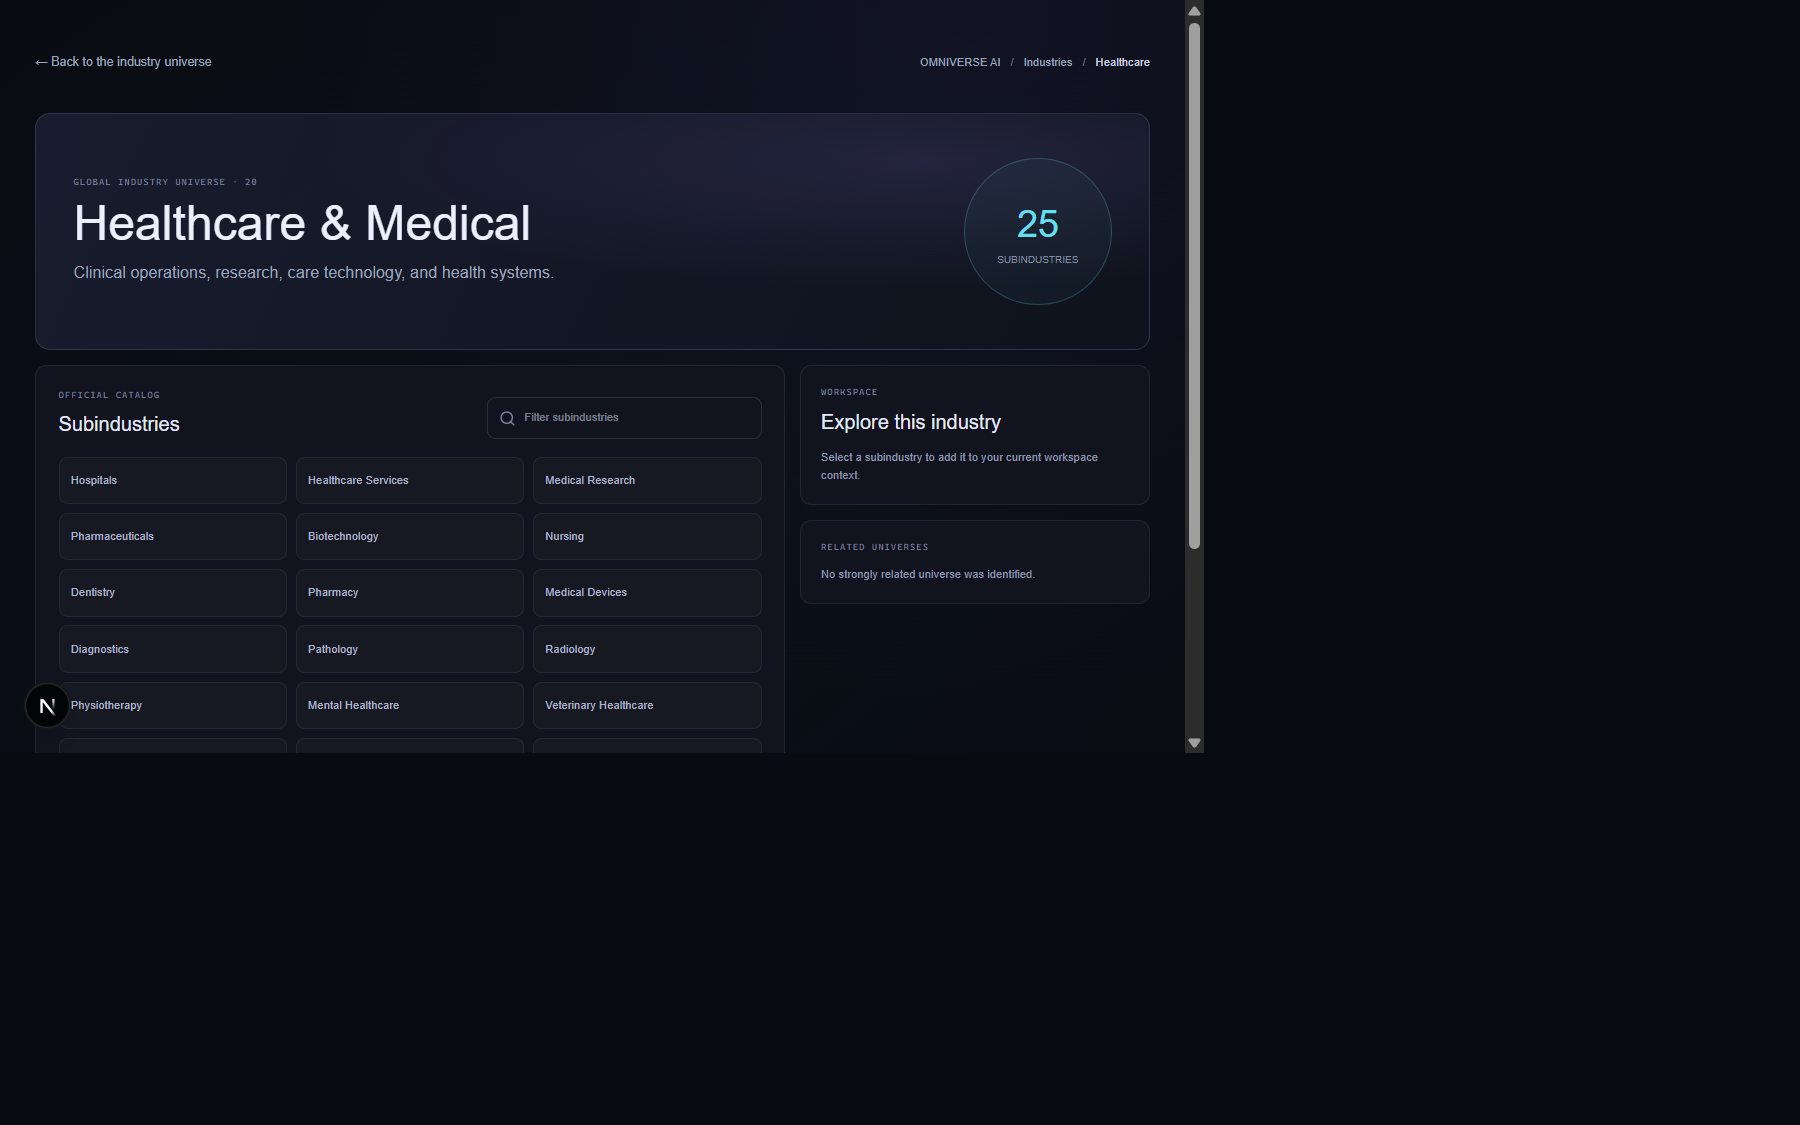
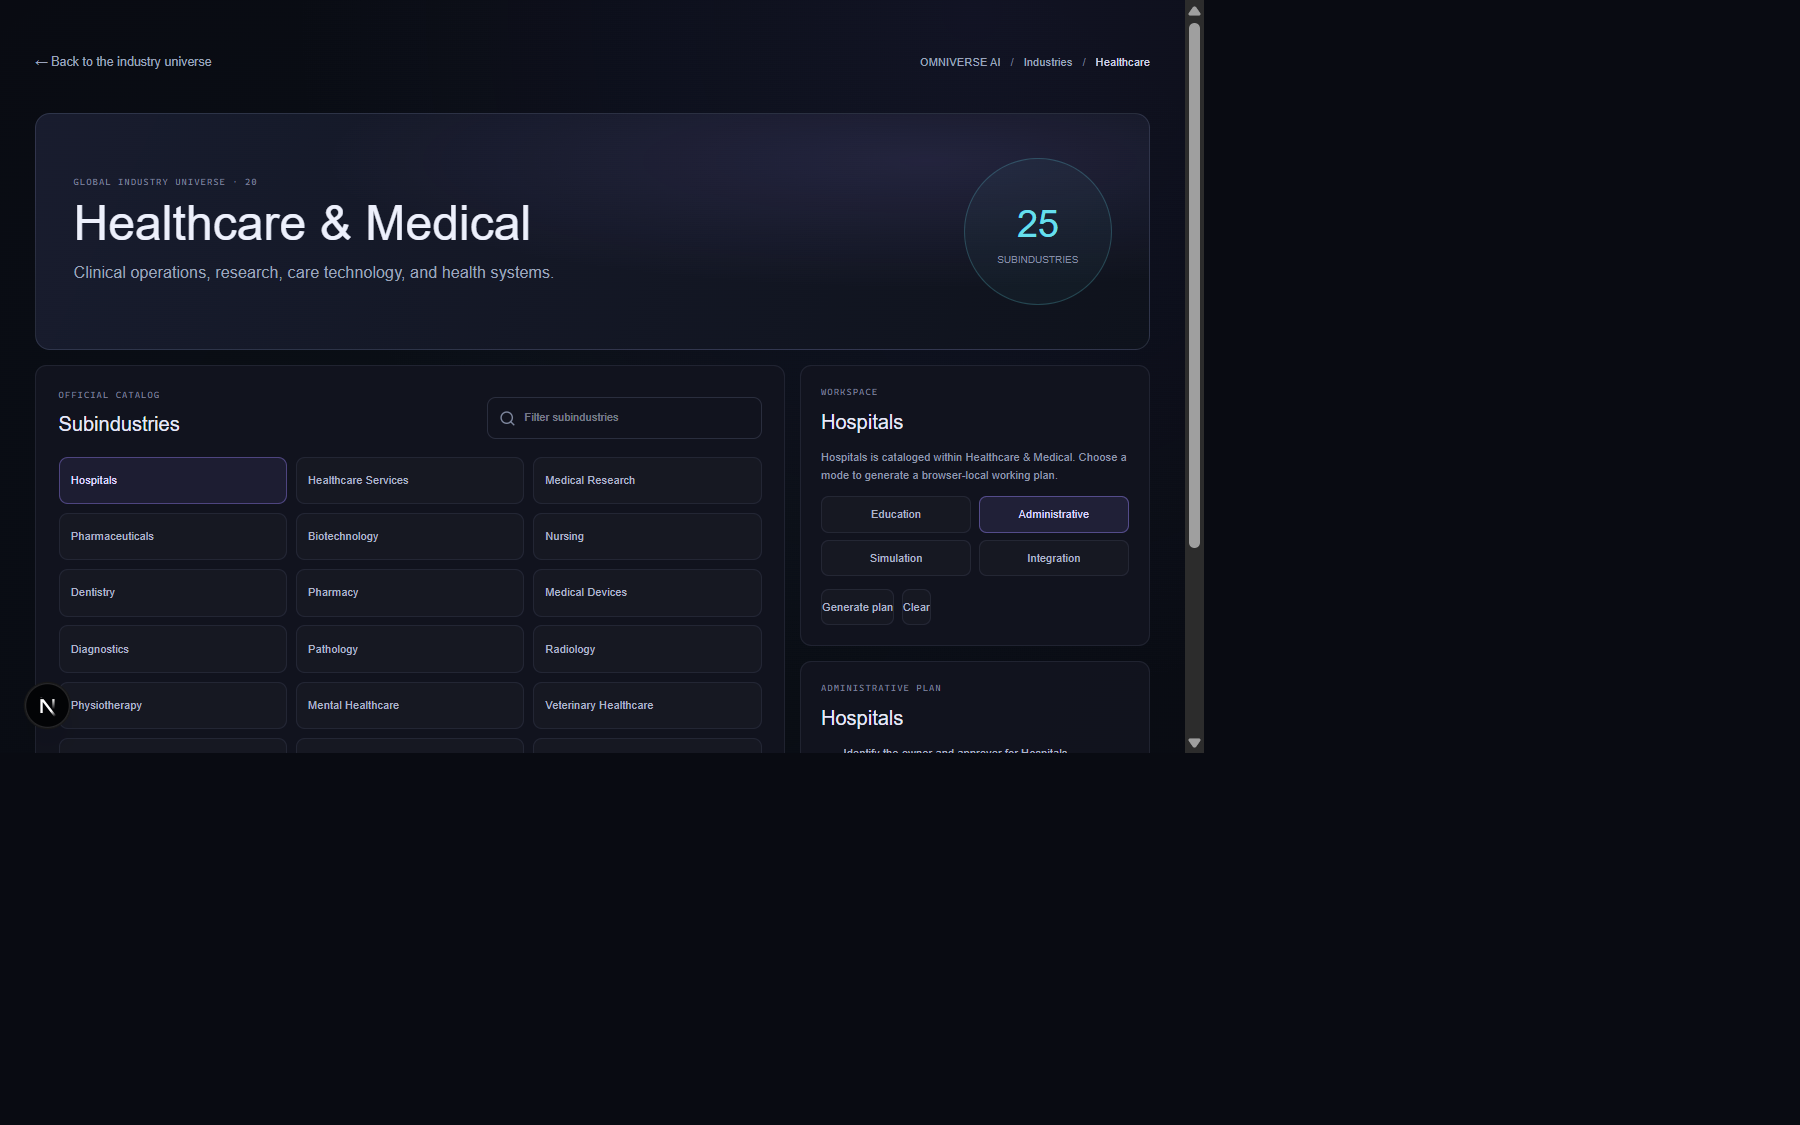
Start Stage 6 industry workspaces

Changed region(s): [[0.4667, 0.3733, 0.6533, 0.56], [0.4667, 0.5911, 0.4978, 0.6533], [0.0311, 0.4044, 0.0622, 0.4356]]

diff --git a/apps/web/src/components/IndustryWorkspace.tsx b/apps/web/src/components/IndustryWorkspace.tsx
@@ -18,6 +18,8 @@ export default function IndustryWorkspace({
 }: IndustryWorkspaceProps) {
   const [search, setSearch] = useState("");
   const [selected, setSelected] = useState<string | null>(null);
+  const [mode, setMode] = useState("Education");
+  const [plan, setPlan] = useState<string[]>([]);
 
   const visible = useMemo(() => {
     const query = search.trim().toLowerCase();
@@ -28,6 +30,39 @@ export default function IndustryWorkspace({
   }, [search, subindustries]);
 
   const frontier = industry.id === "future-frontier-innovation";
+
+  const createPlan = () => {
+    if (!selected) return;
+
+    const plans: Record<string, string[]> = {
+      Education: [
+        `Map learners and roles involved in ${selected}.`,
+        "Define three measurable learning outcomes.",
+        "Prepare a fundamentals, applied practice, and review sequence.",
+        "Add an assessment and knowledge-retention checkpoint.",
+      ],
+      Administrative: [
+        `Identify the owner and approver for ${selected}.`,
+        "Document required inputs, controls, and responsible teams.",
+        "Create a review cadence and escalation route.",
+        "Record outputs and exceptions for audit-ready follow-up.",
+      ],
+      Simulation: [
+        `Define a bounded scenario for ${selected}.`,
+        "State assumptions and explicitly exclude real-world guarantees.",
+        "Test normal, constrained, and failure conditions.",
+        "Review results with uncertainty and maturity labels.",
+      ],
+      Integration: [
+        `Define the ${selected} system boundary.`,
+        "Map source, transformation, destination, and validation steps.",
+        "Specify retry, approval, logging, and failure behavior.",
+        "Validate the workflow in a controlled environment.",
+      ],
+    };
+
+    setPlan(plans[mode] ?? plans.Education);
+  };
 
   return (
     <>
@@ -67,7 +102,10 @@ export default function IndustryWorkspace({
                   key={item}
                   type="button"
                   className={selected === item ? "subindustry-card-active" : ""}
-                  onClick={() => setSelected(item)}
+                  onClick={() => {
+                    setSelected(item);
+                    setPlan([]);
+                  }}
                   aria-pressed={selected === item}
                 >
                   {item}
@@ -91,15 +129,58 @@ export default function IndustryWorkspace({
             <h2>{selected ?? "Explore this industry"}</h2>
             <p>
               {selected
-                ? `${selected} is cataloged within ${industry.name}. Dedicated tools are planned for a later implementation stage.`
+                ? `${selected} is cataloged within ${industry.name}. Choose a mode to generate a browser-local working plan.`
                 : "Select a subindustry to add it to your current workspace context."}
             </p>
             {selected && (
-              <button type="button" onClick={() => setSelected(null)}>
-                Clear selection
-              </button>
+              <div className="industry-mode-grid" aria-label="Workspace mode">
+                {["Education", "Administrative", "Simulation", "Integration"].map(
+                  (item) => (
+                    <button
+                      key={item}
+                      type="button"
+                      className={mode === item ? "industry-mode-active" : ""}
+                      onClick={() => {
+                        setMode(item);
+                        setPlan([]);
+                      }}
+                      aria-pressed={mode === item}
+                    >
+                      {item}
+                    </button>
+                  ),
+                )}
+              </div>
+            )}
+            {selected && (
+              <div className="industry-action-row">
+                <button type="button" onClick={createPlan}>
+                  Generate plan
+                </button>
+                <button
+                  type="button"
+                  onClick={() => {
+                    setSelected(null);
+                    setPlan([]);
+                  }}
+                >
+                  Clear
+                </button>
+              </div>
             )}
           </article>
+
+          {plan.length > 0 && (
+            <article className="industry-context-panel industry-plan-panel">
+              <span className="panel-eyebrow">{mode.toUpperCase()} PLAN</span>
+              <h2>{selected}</h2>
+              <ol>
+                {plan.map((item) => (
+                  <li key={item}>{item}</li>
+                ))}
+              </ol>
+            </article>
+          )}
 
           <article className="industry-context-panel">
             <span className="panel-eyebrow">RELATED UNIVERSES</span>

diff --git a/apps/web/src/app/globals.css b/apps/web/src/app/globals.css
@@ -2318,6 +2318,44 @@ button.category-link {
   font-size: 9px;
 }
 
+.industry-mode-grid {
+  display: grid;
+  grid-template-columns: repeat(2, minmax(0, 1fr));
+  gap: 6px;
+  margin-top: 10px;
+}
+
+.industry-mode-grid button {
+  margin-top: 0;
+  border-radius: 6px;
+}
+
+.industry-mode-grid .industry-mode-active {
+  border-color: rgba(156, 135, 255, 0.42);
+  background: rgba(156, 135, 255, 0.11);
+  color: #ddd8ff;
+}
+
+.industry-action-row {
+  display: flex;
+  gap: 6px;
+  margin-top: 10px;
+}
+
+.industry-action-row button {
+  margin-top: 0;
+}
+
+.industry-plan-panel ol {
+  display: grid;
+  gap: 7px;
+  margin: 10px 0 0;
+  padding-left: 18px;
+  color: #adb4c8;
+  font-size: 9px;
+  line-height: 1.55;
+}
+
 .related-industry-links {
   display: flex;
   flex-wrap: wrap;

diff --git a/PROJECT_ROADMAP.md b/PROJECT_ROADMAP.md
@@ -53,11 +53,11 @@ Status: **Complete**
 
 ## Stage 6 - Industry Modules Development
 
-Status: **Not Started**
+Status: **In Progress**
 
-- Develop industry tool groups incrementally
-- Test each group before moving to the next
-- Clearly identify education, administrative, simulation, and integration modes
+- [ ] Develop industry tool groups incrementally
+- [x] Add a reusable education, administrative, simulation, and integration workspace
+- [ ] Test each group before moving to the next
 
 ## Stage 7 - Central OMNI AI Agent
 
